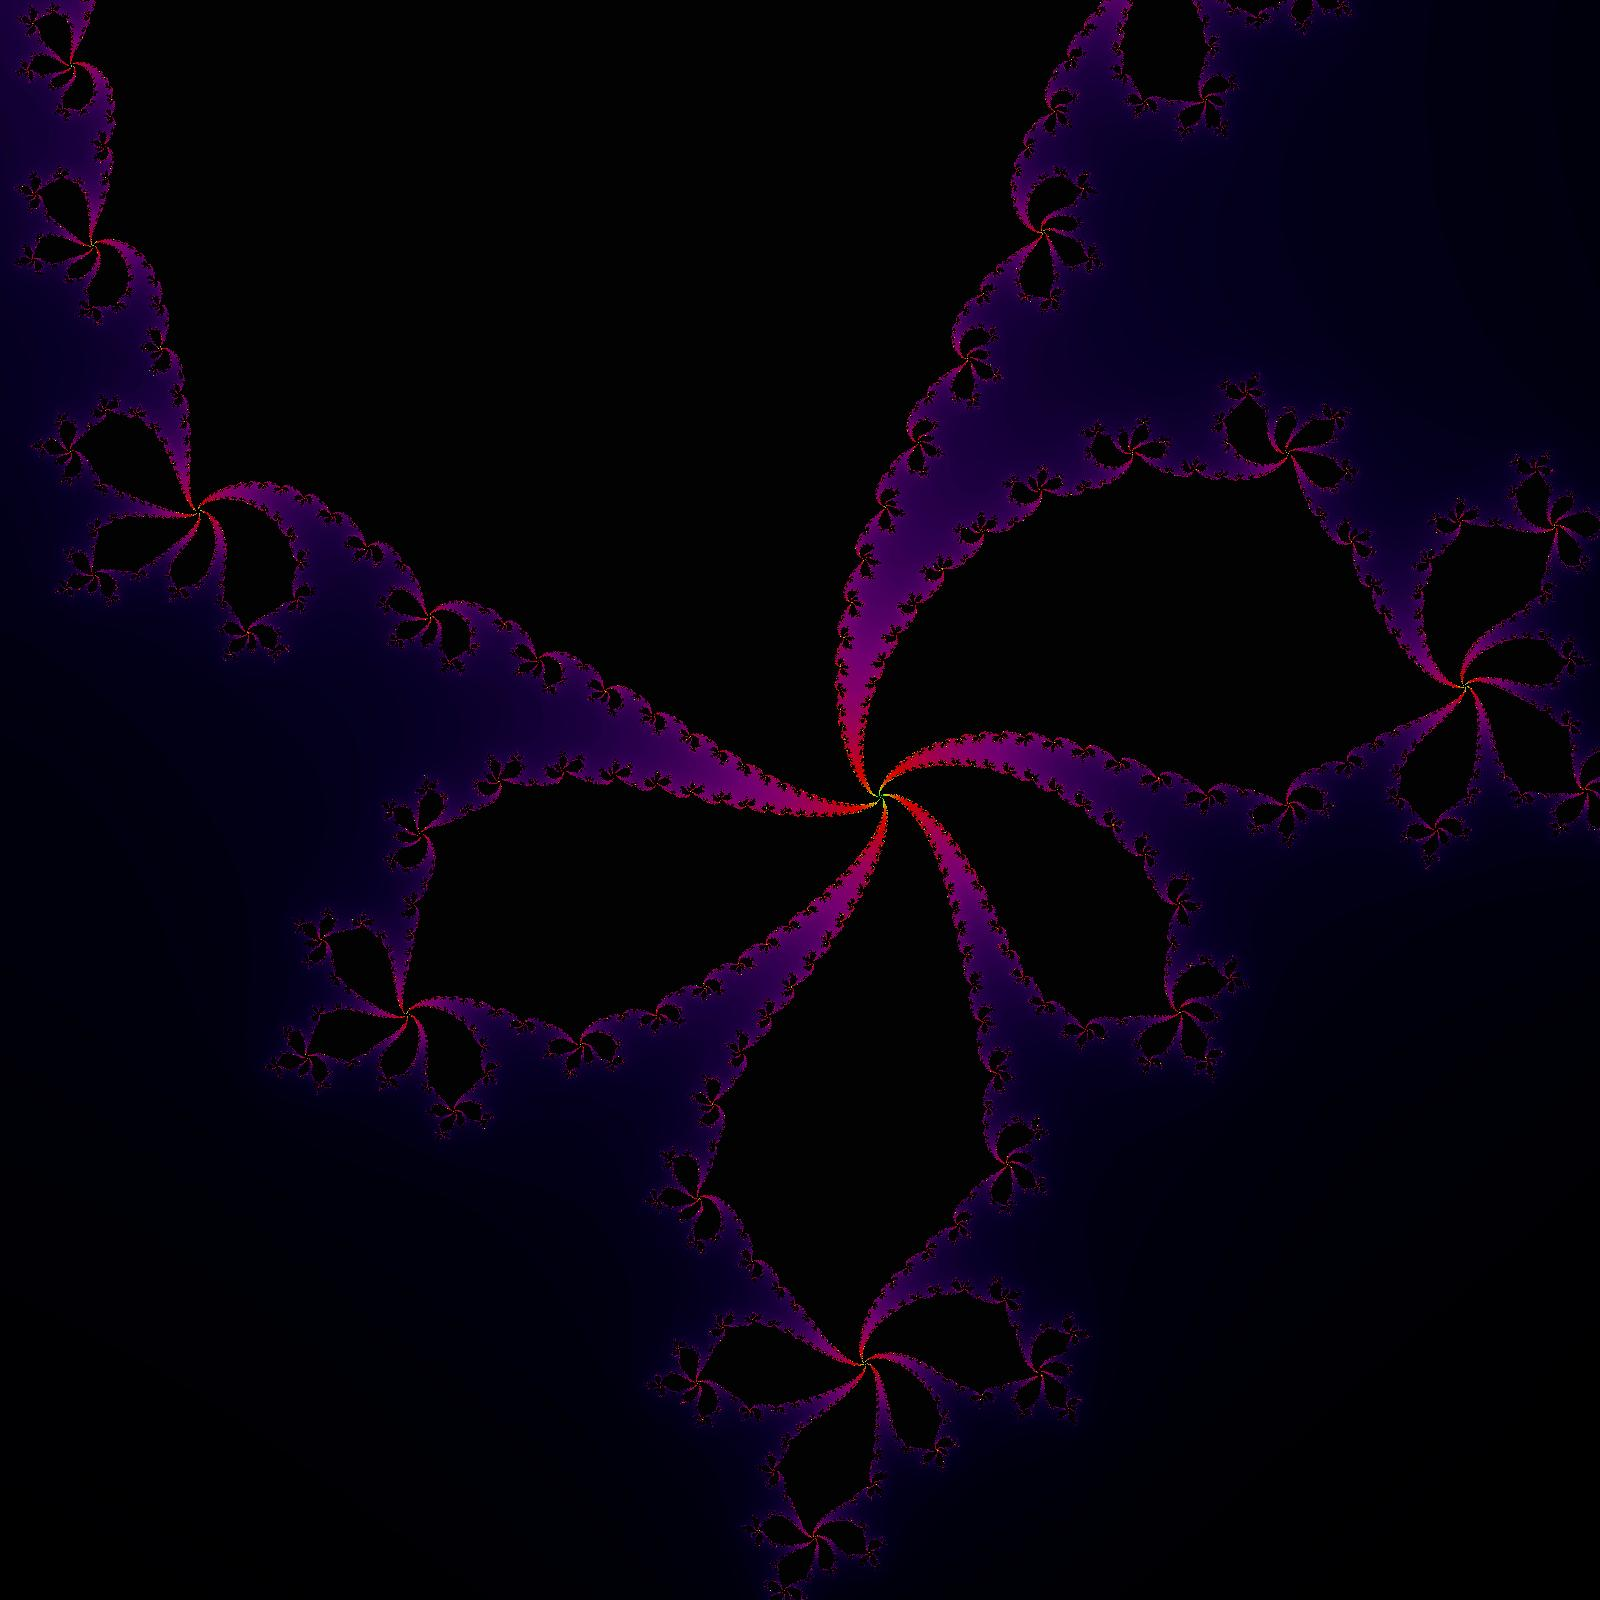
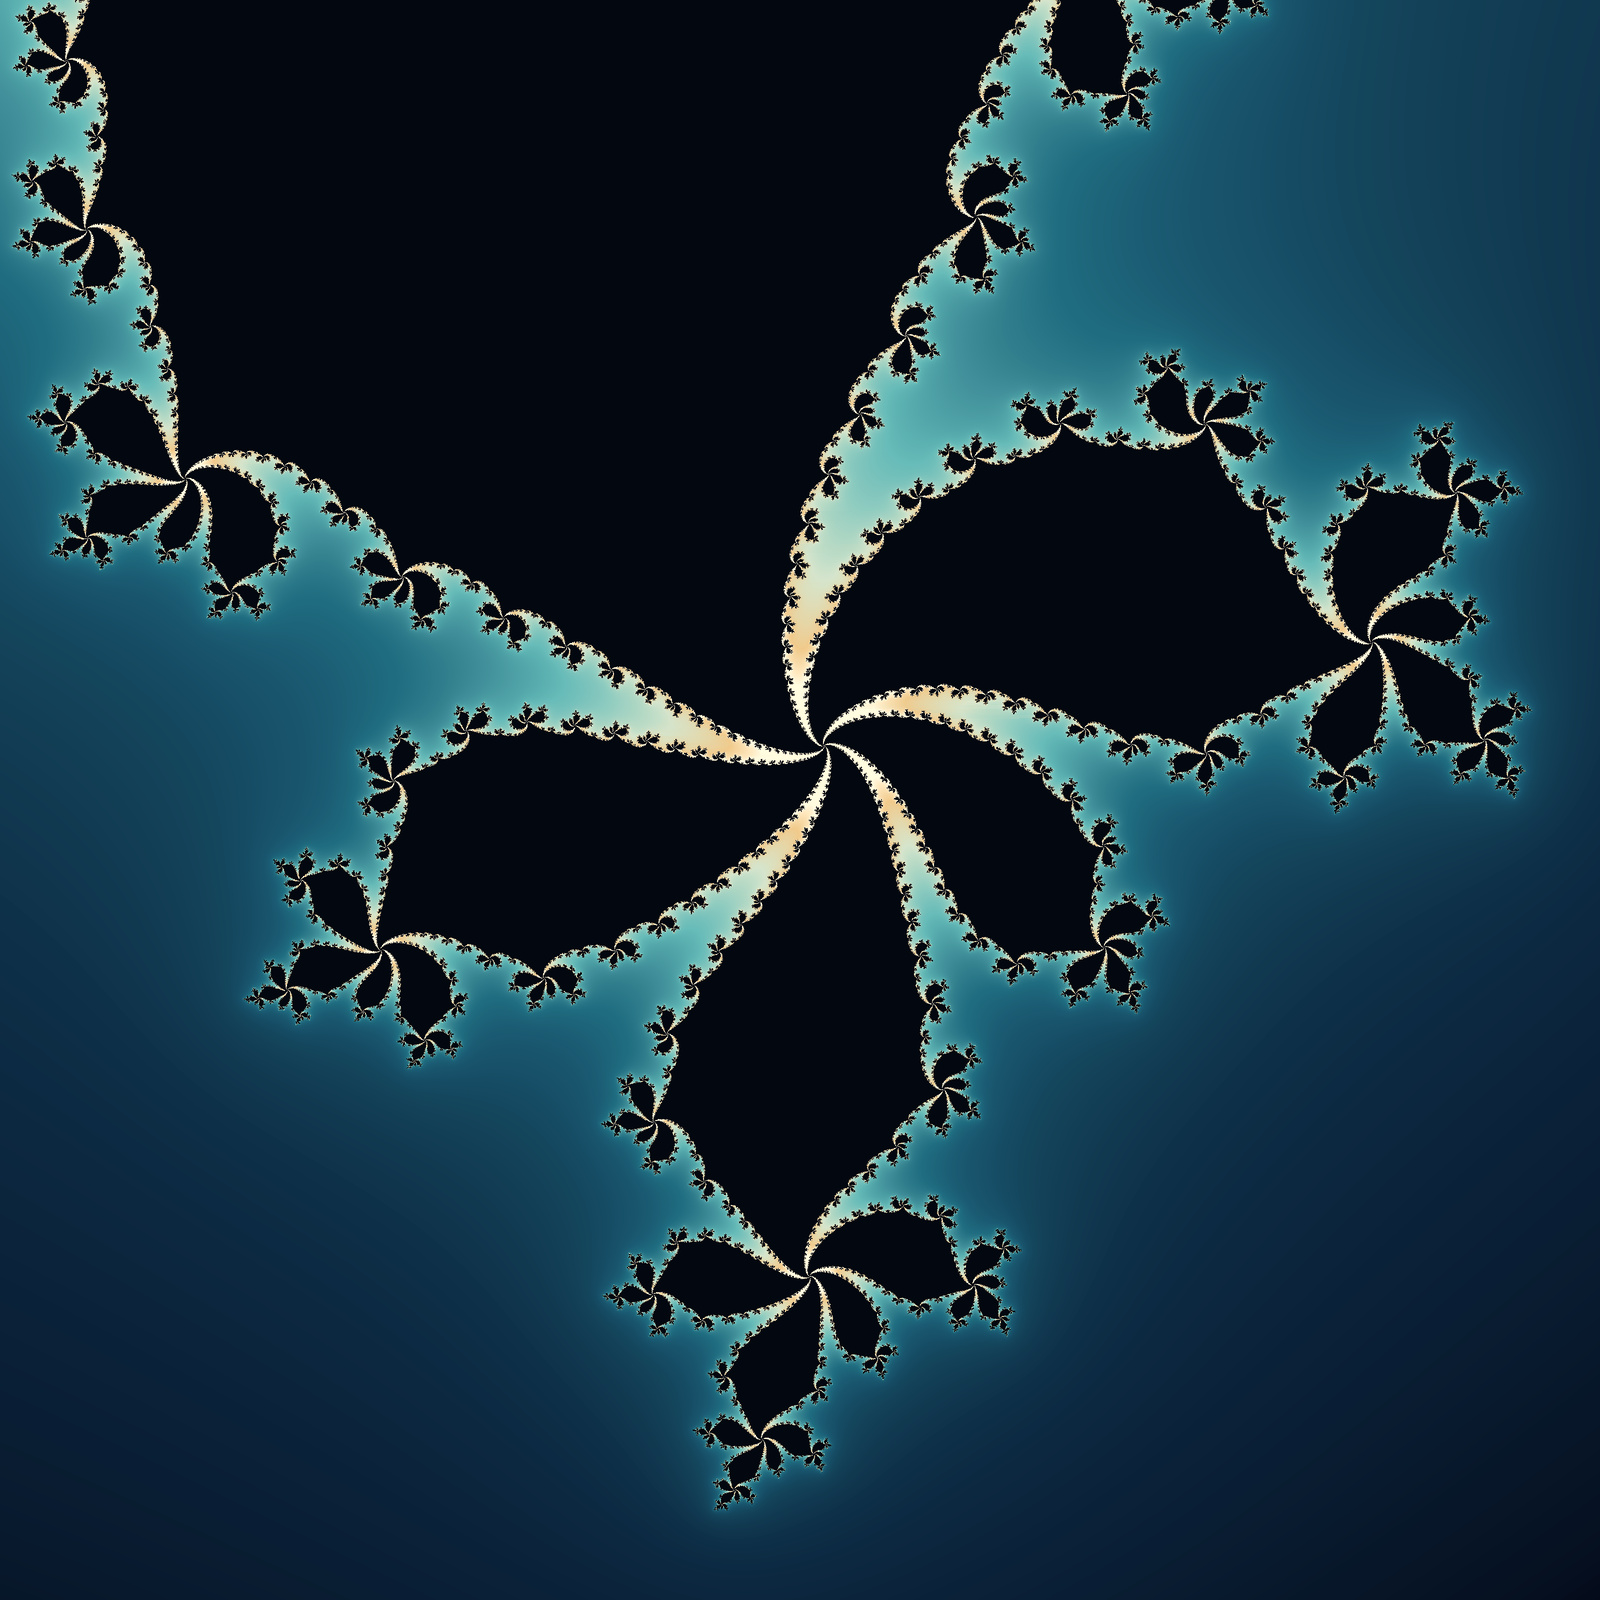
Refine Julia palette and framing; regenerate antialiased images

diff --git a/julia_render.py b/julia_render.py
@@ -45,9 +45,12 @@ def compute_julia(
 
     if np.any(escaped):
         smin = smooth[escaped].min()
-        smax = smooth[escaped].max()
+        # A few very late escapes should not dim the rest of the image.
+        smax = np.percentile(smooth[escaped], 99.3)
         if smax > smin:
-            smooth[escaped] = (smooth[escaped] - smin) / (smax - smin)
+            smooth[escaped] = np.clip(
+                (smooth[escaped] - smin) / (smax - smin), 0.0, 1.0
+            )
         else:
             smooth[escaped] = 0.0
 
@@ -63,10 +66,22 @@ def colorize_julia(
     saturation=0.9,
     interior_value=0.015,
     gamma=0.8,
+    palette=None,
 ):
     """
-    Convert normalized smooth values into RGB using HSV mapping.
+    Color smooth values with HSV or seven RGB palette anchors.
     """
+    if palette is not None:
+        tones = np.power(smooth, gamma)
+        stops = np.array([0.0, 0.20, 0.40, 0.58, 0.76, 0.90, 1.0])
+        colors = np.asarray(palette, dtype=np.float64)
+        rgb = np.stack(
+            [np.interp(tones, stops, colors[:, channel]) for channel in range(3)],
+            axis=-1,
+        )
+        rgb[~escaped] = (5, 8, 16)
+        return Image.fromarray(np.clip(rgb, 0, 255).astype(np.uint8))
+
     h, w = smooth.shape
     hsv = np.zeros((h, w, 3), dtype=np.float64)
 
@@ -140,42 +155,48 @@ def enhance_image(
 
 
 def main():
+    output_size = 1600
+    supersample = 2
     smooth, escaped = compute_julia(
-        width=1600,
-        height=1600,
-        center=(-0.12, 0.74),
-        scale=0.22,
+        width=output_size * supersample,
+        height=output_size * supersample,
+        center=(-0.105, 0.755),
+        scale=0.235,
         c=complex(-0.51, 0.55),
-        max_iter=400,
-        escape_radius=2.0,
+        max_iter=500,
+        escape_radius=16.0,
     )
 
     img = colorize_julia(
         smooth,
         escaped,
-        hue_offset=0.68,
-        hue_scale=0.95,
-        saturation=0.9,
-        interior_value=0.015,
-        gamma=0.8,
+        gamma=0.5,
+        # Midnight blue, jade, sea glass, and warm ivory highlights.
+        palette=[
+            (6, 10, 25), (16, 48, 72), (35, 106, 125),
+            (103, 183, 180), (208, 222, 199), (234, 197, 139),
+            (255, 244, 217),
+        ],
     )
+    img = img.resize((output_size, output_size), Image.Resampling.LANCZOS)
 
-    img = pixel_sort_by_luminance(
+    sorted_img = pixel_sort_by_luminance(
         img,
-        threshold=75,
-        min_run_length=20,
+        threshold=185,
+        min_run_length=60,
         sort_descending=False,
     )
+    img = Image.blend(img, sorted_img, 0.12)
 
     img = enhance_image(
         img,
-        color=1.8,
-        contrast=1.25,
-        brightness=1.1,
+        color=1.03,
+        contrast=1.02,
+        brightness=1.02,
     )
 
     output_path = "julia_output.jpg"
-    img.save(output_path, optimize=True)
+    img.save(output_path, quality=95, subsampling=0, optimize=True)
     print(f"Saved {output_path}")
 
     output_path = "julia_output.png"
